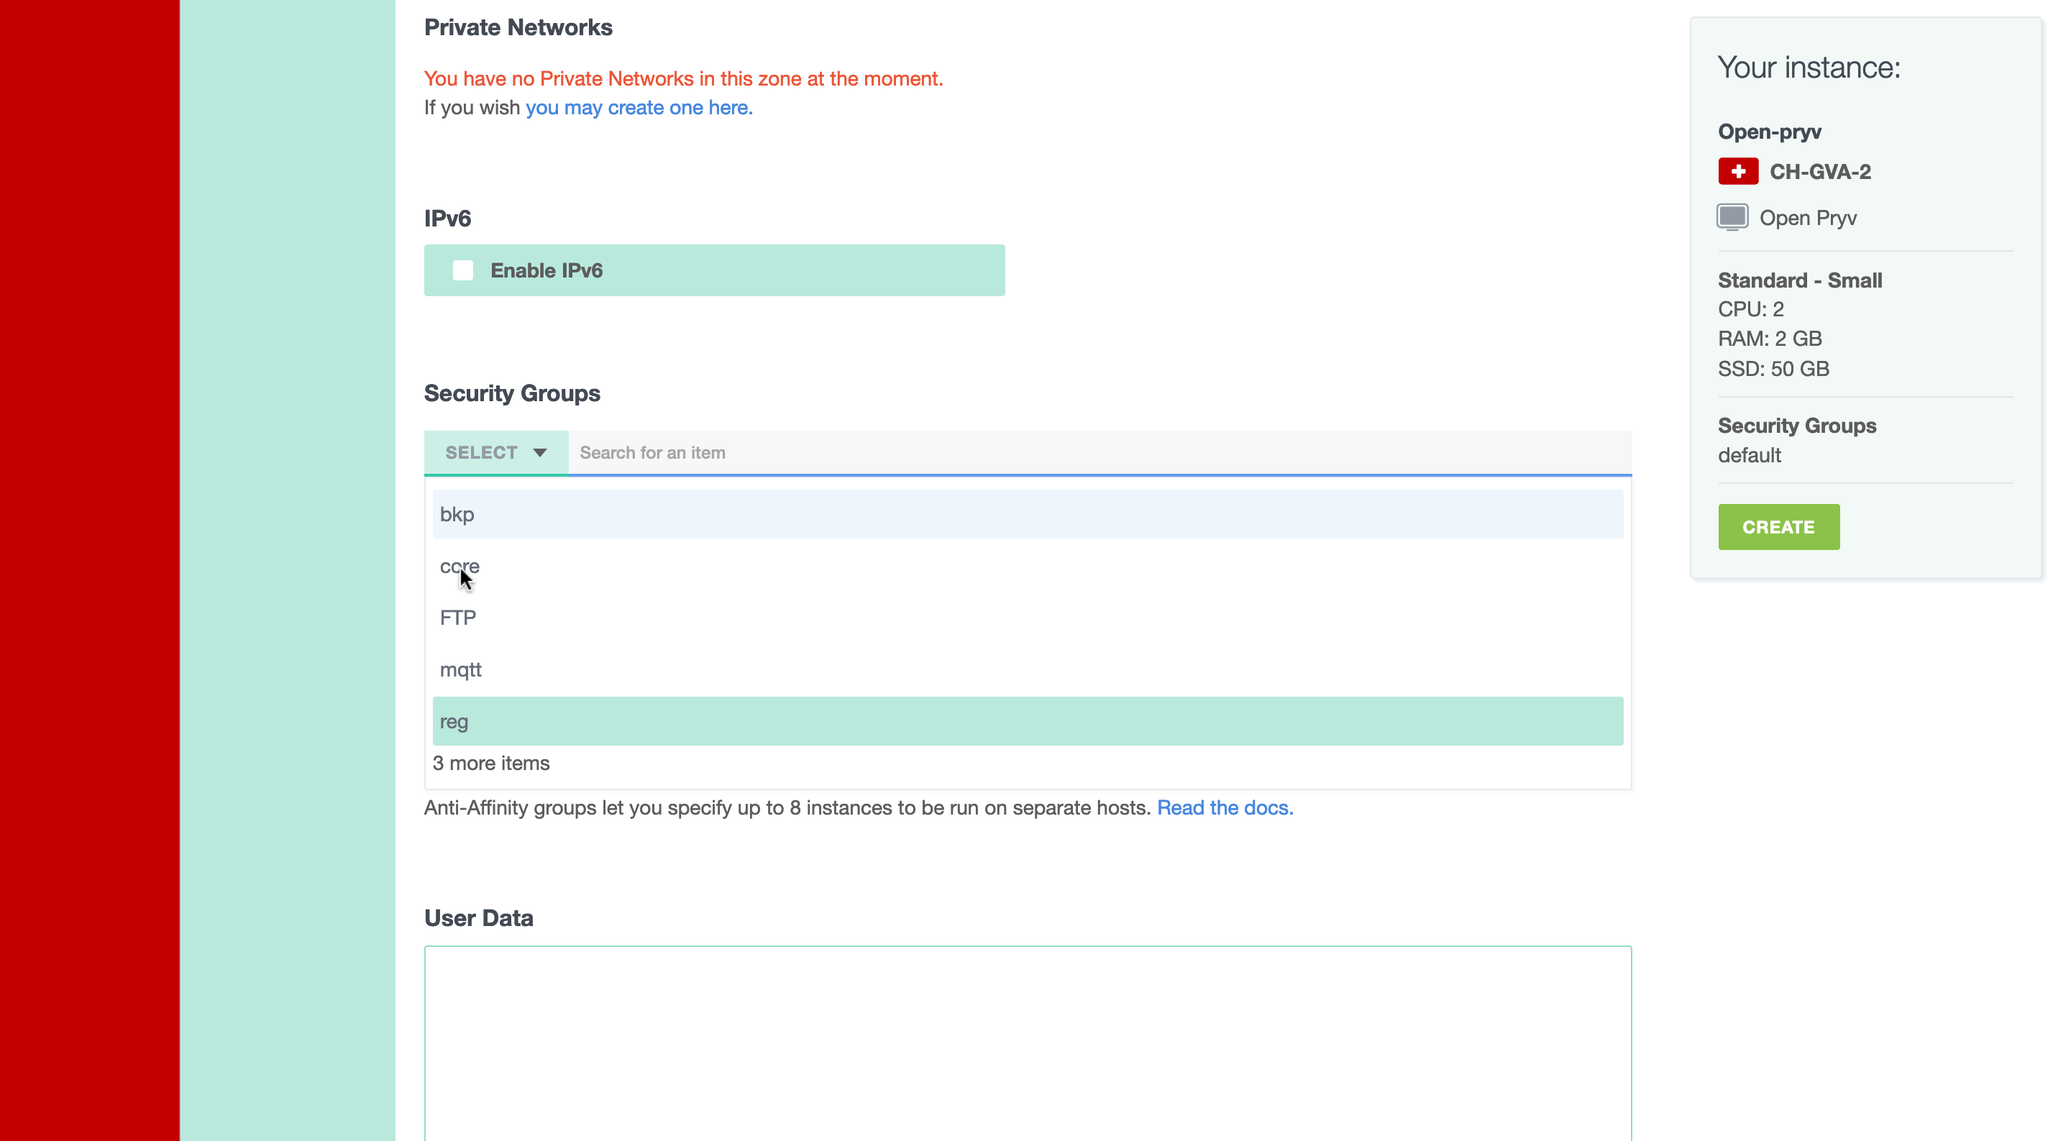
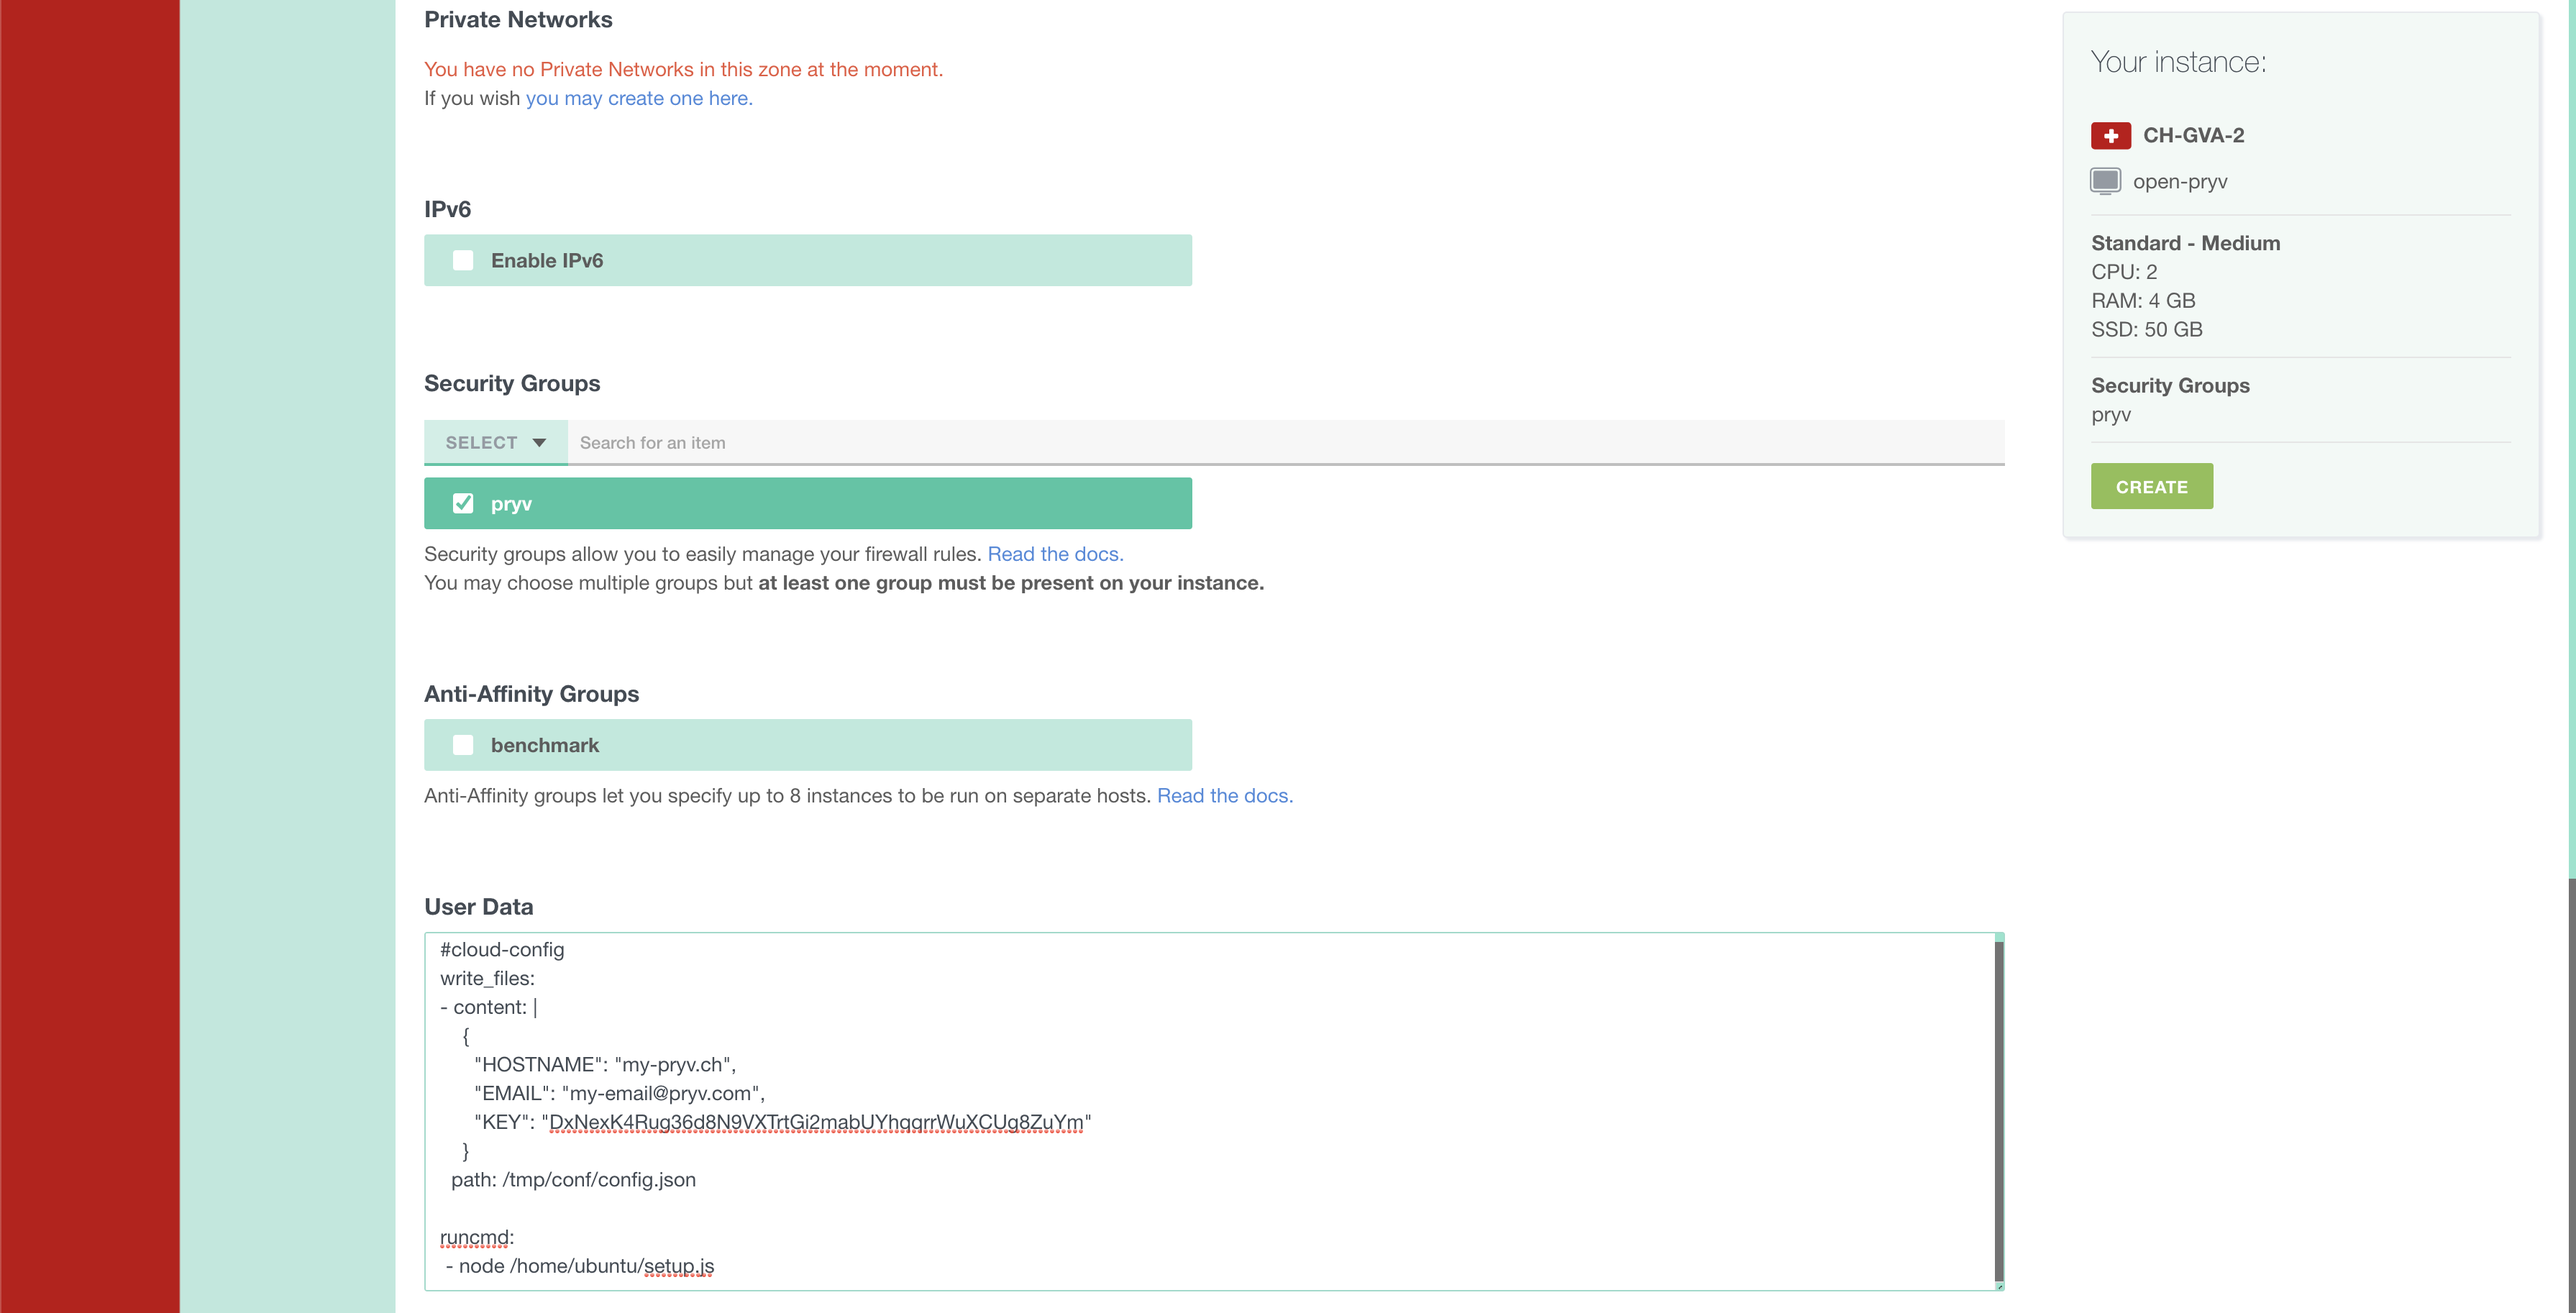
refactor readme usage part

diff --git a/README.md b/README.md
@@ -2,30 +2,41 @@
 
 ## Description
 
-This tutorial will guide you how to 
+This tutorial will guide you to:  
+
 - create a new virtual machine (VM)
-- configure VM with the [OpenPryv.io](https://github.com/pryv/open-pryv.io/)
+- configure the VM with the [OpenPryv.io](https://github.com/pryv/open-pryv.io/) template.
+
+## Requirements
+
+- Account on Exoscale
+- DNS zone to define a type-A record
 
 ## Usage
+
 ### Setup Instance of the image
 
 #### Create Firewall rules
 
-To create new Firewall rules, click on COMPUTE/FIREWALLING and then click on ADD button. You can create the group `core` and click on create. You can then select the group `core` and add new rules in order it is configured as the screenshot below.
+To create new Firewall rules, go to COMPUTE>FIREWALLING and then click on the ADD button. You can create the group `pryv` and click on create. You can then select the group `pryv` and add new rules as shown in the screenshot below.
 
 ![Firewall](./images/firewall.png)
 
+- TCP 443 is necessary for HTTPS
+- TCP 80 is handy for HTTP to HTTPS redirection
+- TCP 22 is used for SSH
+
 #### Create Instance
 
-To create a new Instance, click on COMPUTE/INSTANCES and then ADD. You can choose the hostname of the machine and make the configuration like the picture below.
+To create a new Instance, go to COMPUTE>INSTANCES and then click on the ADD button. You can choose the hostname of the machine and make the configuration like the picture below.
 
 ![Create Instance 1](./images/create_instance_1.png)
 
-Then select the Security Group `core` and copy the content of the snippet bellow by replacing **${HOSTNAME}**, **${SECRET_KEY}** and **${EMAIL}** in the field `User Data` of the form. Please, do not forget to copy `#cloud-config`.
+Then select the Security Group `pryv` and copy the **whole** content of the snippet (you need to include `#cloud-config`) below replacing **${HOSTNAME}**, **${SECRET_KEY}** and **${EMAIL}** in the field `User Data` of the form.  
 
-- **${HOSTNAME}** : Hostname used to access Open-Pryv.io
+- **${HOSTNAME}** : Hostname on which your Open-Pryv.io platform is exposed. You will need to define a DNS A record for this hostname.
 - **${SECRET_KEY}** : This key must be randomly generated and is used as admin access key
-- **${EMAIL}** : This email is used only by Letsencrypt to give you information about your certificate and for recovery purposes ([Link to Letsencrypt](https://letsencrypt.org/fr/privacy/#subscriber)).
+- **${EMAIL}** : This email is only used by Letsencrypt to give you information about your certificate and for recovery purposes ([Link to Letsencrypt](https://letsencrypt.org/fr/privacy/#subscriber)).
 
 ```yaml 
 #cloud-config
@@ -46,7 +57,7 @@ runcmd:
 
 #### DNS Record
 
-When your machine is started, look at the IP address attributed to your machine (see screenshot below) and create an A record in your DNS with the ${HOSTNAME} you furnished before.
+When your machine is started, look at the IP address attributed to your machine (see screenshot below) and create an A record in your DNS zone with the ${HOSTNAME} you furnished before.
 
 ![IP address](./images/ip.png)
 
@@ -56,18 +67,22 @@ During the setup phase, the script will wait until you add the DNS A record. If 
 
 ### Verify
 
-Now your OpenPryv.io platform is running at `https://${HOSTNAME}/` .
-You should see service information similar to one below
+Now your OpenPryv.io platform is running at `https://${HOSTNAME}/`.  
+You should see service information similar to one below:
+
 ```
-meta	
-    apiVersion	"1.5.24-open"
-    serverTime	1601310027.27
-    serial	"t1601309771"
-cheersFrom	"Pryv API"
-learnMoreAt	"https://api.pryv.com/"
+{
+  "meta": {
+    "apiVersion": "1.5.24-open",
+    "serverTime": 1601379119.307,
+    "serial": "t1591793506"
+  },
+  "cheersFrom": "Pryv API",
+  "learnMoreAt": "https://api.pryv.com/"
+}
 ```
-You can try register to your api here `https://${HOSTNAME}/www/access/register.html` using [app-web-auth3 interface](https://github.com/pryv/app-web-auth3).
-You can find the content of [Open-Pryv.io](https://github.com/pryv/open-pryv.io) in the folder `/var/pryv/open-pryv.io`. 
+
+Follow these steps to start using the platform: [Open Pryv.io - Start](https://github.com/pryv/open-pryv.io#native-1).
 
 ### What next
 
